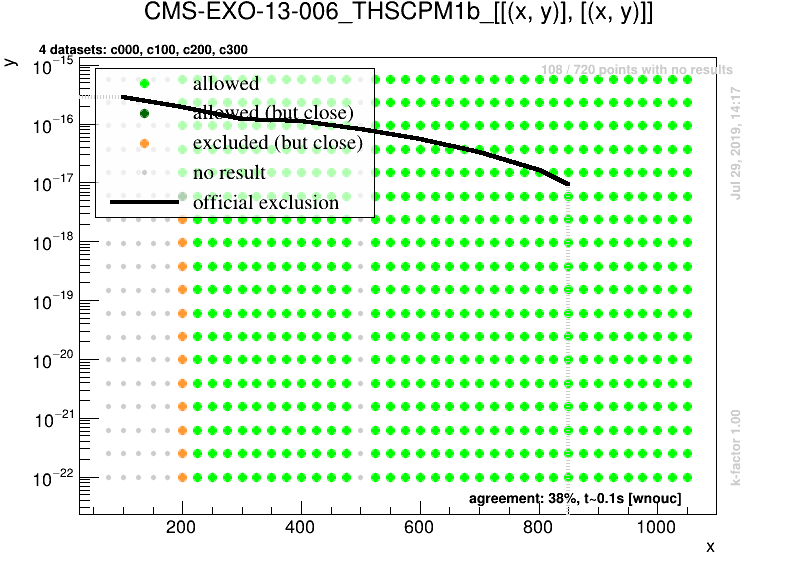
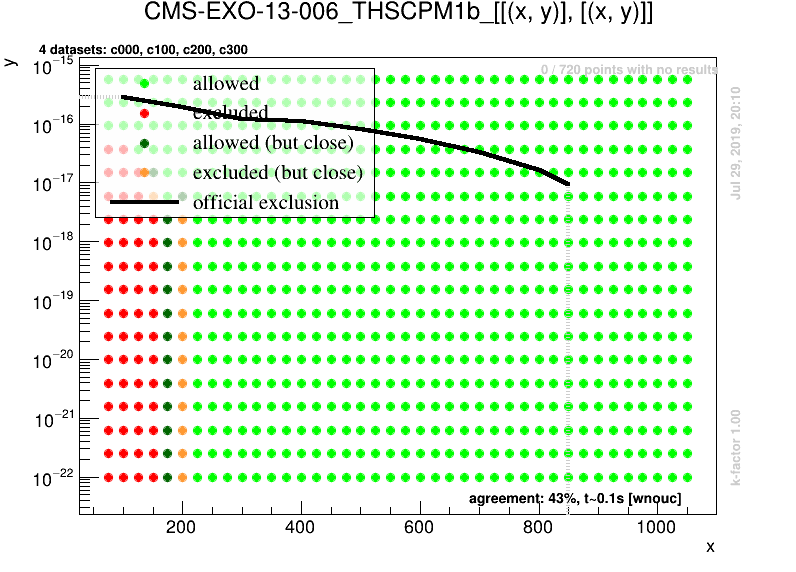
updated width results

diff --git a/docs/ListOfAnalyses200widths1WithSuperseded.md b/docs/ListOfAnalyses200widths1WithSuperseded.md
@@ -2,7 +2,7 @@
 
 # List Of Analyses 2.0.0widths1 (including superseded results)
 List of analyses and topologies in the SMS results database,
-comprising 37 individual maps from 9 distinct signal regions, 9 different SMS topologies, from a total of 3 analyses.
+comprising 49 individual maps from 9 distinct signal regions, 9 different SMS topologies, from a total of 3 analyses.
 The list has been created from the database version `2.0.0widths1`.
 Results from FastLim are included. There is also an  [sms dictionary](SmsDictionary200widths1) and a [validation page](Validation200widths1).
 Link to list of results [without superseded results](ListOfAnalyses200widths1).
@@ -10,7 +10,7 @@ Link to list of results [without superseded results](ListOfAnalyses200widths1).
 ### Run 2 - 13 TeV
  * [ATLAS upper limits](#ATLASupperlimits13): 1  analyses, 1  results
 ### Run 1 - 8 TeV
- * [CMS efficiency maps](#CMSefficiencymaps8): 2  analyses, 9 (of which 8 LLP) results
+ * [CMS efficiency maps](#CMSefficiencymaps8): 2  analyses, 12 (of which 8 LLP) results
 
 <a name="ATLASupperlimits13"></a>
 ## ATLAS, upper limits, 13 TeV (1 analyses)
@@ -26,7 +26,7 @@ Link to list of results [without superseded results](ListOfAnalyses200widths1).
 | **ID** | **short description** | **L [1/fb]** | **Tx names** | **superseded by** | **llhds** |
 |--------|-----------------------|--------------|--------------|-------------------|-----------|
 | **Publications** | | | | | |
-| [CMS-EXO-13-006](http://cms-results.web.cern.ch/cms-results/public-results/publications/EXO-13-006/index.html)<a name="CMS-EXO-13-006"></a> | hscp search | 18.8 | [THSCPM1b](SmsDictionary200widths1#THSCPM1b) [(1)](#A1) | |&#10004; |
+| [CMS-EXO-13-006](http://cms-results.web.cern.ch/cms-results/public-results/publications/EXO-13-006/index.html)<a name="CMS-EXO-13-006"></a> | hscp search | 18.8 | [THSCPM1b](SmsDictionary200widths1#THSCPM1b) [(1)](#A1), [THSCPM2b](SmsDictionary200widths1#THSCPM2b) [(1)](#A1), [THSCPM3](SmsDictionary200widths1#THSCPM3) [(1)](#A1), [THSCPM4](SmsDictionary200widths1#THSCPM4) [(1)](#A1) | |&#10004; |
 | **Publications** | | | | | |
 | [CMS-EXO-13-006-andre](http://cms-results.web.cern.ch/cms-results/public-results/publications/EXO-13-006/index.html)<a name="CMS-EXO-13-006-andre"></a> | hscp search | 18.8 | [THSCPM1b](SmsDictionary200widths1#THSCPM1b) [(1)](#A1), [THSCPM2b](SmsDictionary200widths1#THSCPM2b) [(1)](#A1), [THSCPM3](SmsDictionary200widths1#THSCPM3) [(1)](#A1), [THSCPM4](SmsDictionary200widths1#THSCPM4) [(1)](#A1), [THSCPM5](SmsDictionary200widths1#THSCPM5) [(1)](#A1), [THSCPM6](SmsDictionary200widths1#THSCPM6) [(1)](#A1), [THSCPM7](SmsDictionary200widths1#THSCPM7) [(1)](#A1), [THSCPM8](SmsDictionary200widths1#THSCPM8) [(1)](#A1) | |&#10004; |
 

diff --git a/docs/ListOfAnalyses200widths1.md b/docs/ListOfAnalyses200widths1.md
@@ -2,7 +2,7 @@
 
 # List Of Analyses 2.0.0widths1 
 List of analyses and topologies in the SMS results database,
-comprising 37 individual maps from 9 distinct signal regions, 9 different SMS topologies, from a total of 3 analyses.
+comprising 49 individual maps from 9 distinct signal regions, 9 different SMS topologies, from a total of 3 analyses.
 The list has been created from the database version `2.0.0widths1`.
 Results from FastLim are included. There is also an  [sms dictionary](SmsDictionary200widths1) and a [validation page](Validation200widths1).
 Link to list of results [including superseded results](ListOfAnalyses200widths1WithSuperseded).
@@ -10,7 +10,7 @@ Link to list of results [including superseded results](ListOfAnalyses200widths1W
 ### Run 2 - 13 TeV
  * [ATLAS upper limits](#ATLASupperlimits13): 1  analyses, 1  results
 ### Run 1 - 8 TeV
- * [CMS efficiency maps](#CMSefficiencymaps8): 2  analyses, 9 (of which 8 LLP) results
+ * [CMS efficiency maps](#CMSefficiencymaps8): 2  analyses, 12 (of which 8 LLP) results
 
 <a name="ATLASupperlimits13"></a>
 ## ATLAS, upper limits, 13 TeV (1 analyses)
@@ -26,7 +26,7 @@ Link to list of results [including superseded results](ListOfAnalyses200widths1W
 | **ID** | **short description** | **L [1/fb]** | **Tx names** | **llhds** |
 |--------|-----------------------|--------------|--------------|-----------|
 | **Publications** | | | | |
-| [CMS-EXO-13-006](http://cms-results.web.cern.ch/cms-results/public-results/publications/EXO-13-006/index.html)<a name="CMS-EXO-13-006"></a> | hscp search | 18.8 | [THSCPM1b](SmsDictionary200widths1#THSCPM1b) [(1)](#A1) |&#10004; |
+| [CMS-EXO-13-006](http://cms-results.web.cern.ch/cms-results/public-results/publications/EXO-13-006/index.html)<a name="CMS-EXO-13-006"></a> | hscp search | 18.8 | [THSCPM1b](SmsDictionary200widths1#THSCPM1b) [(1)](#A1), [THSCPM2b](SmsDictionary200widths1#THSCPM2b) [(1)](#A1), [THSCPM3](SmsDictionary200widths1#THSCPM3) [(1)](#A1), [THSCPM4](SmsDictionary200widths1#THSCPM4) [(1)](#A1) |&#10004; |
 | **Publications** | | | | |
 | [CMS-EXO-13-006-andre](http://cms-results.web.cern.ch/cms-results/public-results/publications/EXO-13-006/index.html)<a name="CMS-EXO-13-006-andre"></a> | hscp search | 18.8 | [THSCPM1b](SmsDictionary200widths1#THSCPM1b) [(1)](#A1), [THSCPM2b](SmsDictionary200widths1#THSCPM2b) [(1)](#A1), [THSCPM3](SmsDictionary200widths1#THSCPM3) [(1)](#A1), [THSCPM4](SmsDictionary200widths1#THSCPM4) [(1)](#A1), [THSCPM5](SmsDictionary200widths1#THSCPM5) [(1)](#A1), [THSCPM6](SmsDictionary200widths1#THSCPM6) [(1)](#A1), [THSCPM7](SmsDictionary200widths1#THSCPM7) [(1)](#A1), [THSCPM8](SmsDictionary200widths1#THSCPM8) [(1)](#A1) |&#10004; |
 

diff --git a/docs/SmsDictionary200widths1.md b/docs/SmsDictionary200widths1.md
@@ -10,9 +10,9 @@ There is also a [ListOfAnalyses200widths1](https://smodels.github.io/docs/ListOf
 | ----- | ------ | ------------ | --------- | -------------- |
 | 1 | <a name="T5Disp"></a>**T5Disp**<br> | `[[[q,q]],[[q,q]]]`<BR>`(MET,MET)` | ![T5Disp](../feyn/straight/T5Disp.png) | [ATLAS-SUSY-2016-08](ListOfAnalyses200widths1#ATLAS-SUSY-2016-08)|
 | 2 | <a name="THSCPM1b"></a>**THSCPM1b**<br> | `[[],[]]`<BR>`(HSCP,HSCP)` | ![THSCPM1b](../feyn/straight/THSCPM1b.png) | [CMS-EXO-13-006-andre](ListOfAnalyses200widths1#CMS-EXO-13-006-andre)<BR>[CMS-EXO-13-006](ListOfAnalyses200widths1#CMS-EXO-13-006)|
-| 3 | <a name="THSCPM2b"></a>**THSCPM2b**<br> | `[[*],[]]`<BR>`(MET,HSCP)` | ![THSCPM2b](../feyn/straight/THSCPM2b.png) | [CMS-EXO-13-006-andre](ListOfAnalyses200widths1#CMS-EXO-13-006-andre)|
-| 4 | <a name="THSCPM3"></a>**THSCPM3**<br> | `[[[*]],[[*]]]`<BR>`(HSCP,HSCP)` | ![THSCPM3](../feyn/straight/THSCPM3.png) | [CMS-EXO-13-006-andre](ListOfAnalyses200widths1#CMS-EXO-13-006-andre)|
-| 5 | <a name="THSCPM4"></a>**THSCPM4**<br> | `[[*],[[*]]]`<BR>`(MET,HSCP)` | ![THSCPM4](../feyn/straight/THSCPM4.png) | [CMS-EXO-13-006-andre](ListOfAnalyses200widths1#CMS-EXO-13-006-andre)|
+| 3 | <a name="THSCPM2b"></a>**THSCPM2b**<br> | `[[*],[]]`<BR>`(MET,HSCP)` | ![THSCPM2b](../feyn/straight/THSCPM2b.png) | [CMS-EXO-13-006-andre](ListOfAnalyses200widths1#CMS-EXO-13-006-andre)<BR>[CMS-EXO-13-006](ListOfAnalyses200widths1#CMS-EXO-13-006)|
+| 4 | <a name="THSCPM3"></a>**THSCPM3**<br> | `[[[*]],[[*]]]`<BR>`(HSCP,HSCP)` | ![THSCPM3](../feyn/straight/THSCPM3.png) | [CMS-EXO-13-006-andre](ListOfAnalyses200widths1#CMS-EXO-13-006-andre)<BR>[CMS-EXO-13-006](ListOfAnalyses200widths1#CMS-EXO-13-006)|
+| 5 | <a name="THSCPM4"></a>**THSCPM4**<br> | `[[*],[[*]]]`<BR>`(MET,HSCP)` | ![THSCPM4](../feyn/straight/THSCPM4.png) | [CMS-EXO-13-006-andre](ListOfAnalyses200widths1#CMS-EXO-13-006-andre)<BR>[CMS-EXO-13-006](ListOfAnalyses200widths1#CMS-EXO-13-006)|
 | 6 | <a name="THSCPM5"></a>**THSCPM5**<br> | `[[[*],[*]],[[*],[*]]]`<BR>`(HSCP,HSCP)` | ![THSCPM5](../feyn/straight/THSCPM5.png) | [CMS-EXO-13-006-andre](ListOfAnalyses200widths1#CMS-EXO-13-006-andre)|
 | 7 | <a name="THSCPM6"></a>**THSCPM6**<br> | `[[*],[[*],[*]]]`<BR>`(MET,HSCP)` | ![THSCPM6](../feyn/straight/THSCPM6.png) | [CMS-EXO-13-006-andre](ListOfAnalyses200widths1#CMS-EXO-13-006-andre)|
 | 8 | <a name="THSCPM7"></a>**THSCPM7**<br> | `[[[*]],[[*],[*]]]`<BR>`(HSCP,HSCP)` | ![THSCPM7](../feyn/straight/THSCPM7.png) | [CMS-EXO-13-006-andre](ListOfAnalyses200widths1#CMS-EXO-13-006-andre)|

diff --git a/docs/Validation200widths1.md b/docs/Validation200widths1.md
@@ -16,7 +16,7 @@ The validation procedure for upper limit maps used here is explained in [arXiv:1
  * [ATLAS upper limits](#ATLASupperlimits13): 1 analyses, 1 results
 
 ### Run 1 - 8 TeV
- * [CMS efficiency maps](#CMSefficiencymaps8): 2 analyses, 9 results
+ * [CMS efficiency maps](#CMSefficiencymaps8): 2 analyses, 12 results
 
 
 <a name="ATLASupperlimits13"></a>
@@ -28,7 +28,7 @@ The validation procedure for upper limit maps used here is explained in [arXiv:1
 
 
 <a name="CMSefficiencymaps8"></a>
-## CMS efficiency maps, 8 TeV: 2 analyses, 9 results total
+## CMS efficiency maps, 8 TeV: 2 analyses, 12 results total
 
 | **Result** | **Txname** | **L [1/fb]** | **Validation plots** | **comment** |
 |------------|------------|--------------|----------------------|-------------|
@@ -41,5 +41,8 @@ The validation procedure for upper limit maps used here is explained in [arXiv:1
 | | [THSCPM7](SmsDictionary200widths1#THSCPM7)| 18.8|  | <img src="https://smodels.github.io/pics/new.png" /> in 2.0.0widths1!  |
 | | [THSCPM8](SmsDictionary200widths1#THSCPM8)| 18.8|  | <img src="https://smodels.github.io/pics/new.png" /> in 2.0.0widths1!  |
 | [CMS-EXO-13-006](http://cms-results.web.cern.ch/cms-results/public-results/publications/EXO-13-006/index.html)| [THSCPM1b](SmsDictionary200widths1#THSCPM1b)| 18.8|<a href="https://smodels.github.io/validation/200widths1/8TeV/CMS/CMS-EXO-13-006-eff/validation/THSCPM1b_2EqMassAx_EqWidthAy_pretty.png"><img src="https://smodels.github.io/validation/200widths1/8TeV/CMS/CMS-EXO-13-006-eff/validation/THSCPM1b_2EqMassAx_EqWidthAy_pretty.png" /></a>  |[comment](https://smodels.github.io/validation/200widths1/8TeV/CMS/CMS-EXO-13-006-eff/validation/THSCPM1b.txt) |
+| | [THSCPM2b](SmsDictionary200widths1#THSCPM2b)| 18.8|  | |
+| | [THSCPM3](SmsDictionary200widths1#THSCPM3)| 18.8|  | |
+| | [THSCPM4](SmsDictionary200widths1#THSCPM4)| 18.8|  | |
 
-This page was created Mon Jul 29 19:18:31 2019
+This page was created Mon Jul 29 20:13:06 2019

diff --git a/docs/ValidationUgly200widths1.md b/docs/ValidationUgly200widths1.md
@@ -19,7 +19,7 @@ To [official validation plots](Validation200widths1)
  * [ATLAS upper limits](#ATLASupperlimits13): 1 analyses, 1 results
 
 ### Run 1 - 8 TeV
- * [CMS efficiency maps](#CMSefficiencymaps8): 2 analyses, 9 results
+ * [CMS efficiency maps](#CMSefficiencymaps8): 2 analyses, 12 results
 
 
 <a name="ATLASupperlimits13"></a>
@@ -31,7 +31,7 @@ To [official validation plots](Validation200widths1)
 
 
 <a name="CMSefficiencymaps8"></a>
-## CMS efficiency maps, 8 TeV: 2 analyses, 9 results total
+## CMS efficiency maps, 8 TeV: 2 analyses, 12 results total
 
 | **Result** | **Txname** | **L [1/fb]** | **Validated?** | **Validation plots** | **comment** |
 |------------|------------|--------------|----------------|----------------------|-------------|
@@ -44,5 +44,8 @@ To [official validation plots](Validation200widths1)
 | | [THSCPM7](SmsDictionary200widths1#THSCPM7)| 18.8| n/a |  | <img src="https://smodels.github.io/pics/new.png" /> in 2.0.0widths1!  |
 | | [THSCPM8](SmsDictionary200widths1#THSCPM8)| 18.8| n/a |  | <img src="https://smodels.github.io/pics/new.png" /> in 2.0.0widths1!  |
 | [CMS-EXO-13-006](http://cms-results.web.cern.ch/cms-results/public-results/publications/EXO-13-006/index.html)| [THSCPM1b](SmsDictionary200widths1#THSCPM1b)| 18.8| tbd |<a href="https://smodels.github.io/validation/200widths1/8TeV/CMS/CMS-EXO-13-006-eff/validation/THSCPM1b_2EqMassAx_EqWidthAy.png"><img src="https://smodels.github.io/validation/200widths1/8TeV/CMS/CMS-EXO-13-006-eff/validation/THSCPM1b_2EqMassAx_EqWidthAy.png" /></a>  |[comment](https://smodels.github.io/validation/200widths1/8TeV/CMS/CMS-EXO-13-006-eff/validation/THSCPM1b.txt) |
+| | [THSCPM2b](SmsDictionary200widths1#THSCPM2b)| 18.8| tbd |  | |
+| | [THSCPM3](SmsDictionary200widths1#THSCPM3)| 18.8| tbd |  | |
+| | [THSCPM4](SmsDictionary200widths1#THSCPM4)| 18.8| tbd |  | |
 
-This page was created Mon Jul 29 19:18:55 2019
+This page was created Mon Jul 29 20:13:37 2019
